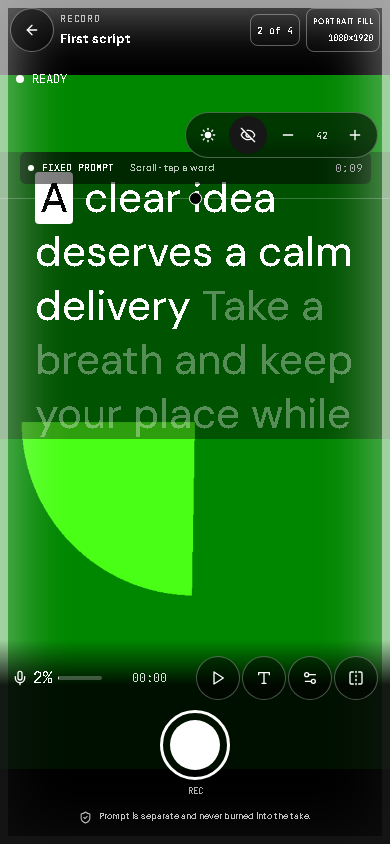
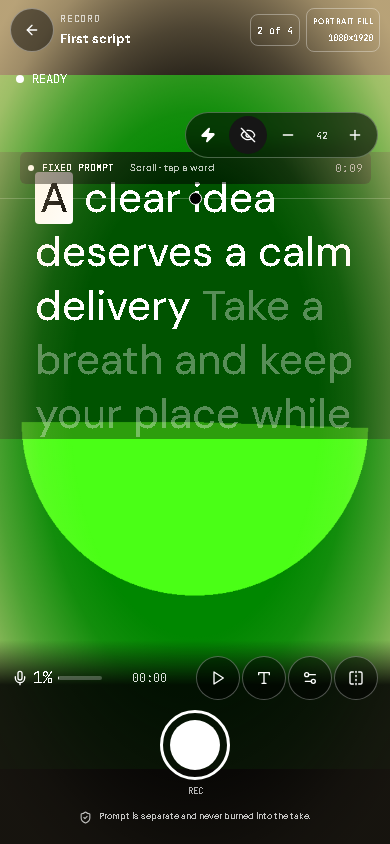
Match Snapchat-style front flash treatment

diff --git a/src/components/teleprompter/RecordPanel.tsx b/src/components/teleprompter/RecordPanel.tsx
@@ -1,5 +1,5 @@
 import { useEffect, useMemo, useRef, useState, type CSSProperties, type ReactNode } from 'react'
-import { ArrowLeft, Camera, Eye, EyeOff, FlipHorizontal, LockKeyhole, Mic, Minus, Pause, Play, Plus, RefreshCw, Settings2, ShieldCheck, Square, Sun, Type, Video, Volume2, Zap } from 'lucide-react'
+import { ArrowLeft, Camera, Eye, EyeOff, FlipHorizontal, LockKeyhole, Mic, Minus, Pause, Play, Plus, RefreshCw, Settings2, ShieldCheck, Square, Type, Video, Volume2, X, Zap } from 'lucide-react'
 import type { CaptureSettings, PromptSettings, RecorderSnapshot, ScriptDocument, TakeRecord } from '../../types/recording'
 import { drawCaptureFrame, measureDrawnFrame, previewTransform, type DrawnFrameDimensions } from '../../features/recording/capture'
 import { Alert, Badge, BottomSheet, Button, IconButton, NativeSelect, Slider, Switch } from '../ui/primitives'
@@ -63,6 +63,7 @@ export function RecordPanel({ snapshot, settings, script, reader, onBack, onSett
   const actionBusyRef = useRef(false)
   const [settingsOpen, setSettingsOpen] = useState(false)
   const [promptSettingsOpen, setPromptSettingsOpen] = useState(false)
+  const [lightControlsOpen, setLightControlsOpen] = useState(false)
   const [actionBusy, setActionBusy] = useState(false)
   const [micTesting, setMicTesting] = useState(false)
   const [videoSize, setVideoSize] = useState({ width: 0, height: 0 })
@@ -81,7 +82,8 @@ export function RecordPanel({ snapshot, settings, script, reader, onBack, onSett
   const resolution = useMemo(() => formatResolution(settings), [settings])
   const framingMode = settings.framingMode ?? 'fill'
   const rotation = settings.rotation ?? 'auto'
-  const screenLightColor = settings.screenLightTone === 'warm' ? '255, 221, 178' : settings.screenLightTone === 'cool' ? '214, 235, 255' : '255, 255, 255'
+  const screenLightColor = settings.screenLightTone === 'warm' ? '255, 225, 166' : settings.screenLightTone === 'cool' ? '205, 242, 255' : '255, 255, 255'
+  const screenLightToneLabel = settings.screenLightTone === 'warm' ? 'Warm' : settings.screenLightTone === 'cool' ? 'Cool' : 'Neutral'
 
   useEffect(() => {
     const video = videoRef.current
@@ -186,12 +188,24 @@ export function RecordPanel({ snapshot, settings, script, reader, onBack, onSett
 
     {reader && <div className="tp-record-reader-overlay" style={{ position: 'absolute', inset: 0, zIndex: 2, pointerEvents: 'none' }}>{reader}</div>}
     <div className="tp-record-prompt-tools" role="group" aria-label="On-screen recording controls">
-      <IconButton label={settings.screenLight ? 'Turn screen light off' : 'Turn screen light on'} onClick={() => onSettingsChange({ screenLight: !settings.screenLight })}><Sun size={18} fill={settings.screenLight ? 'currentColor' : 'none'}/></IconButton>
+      <IconButton label="Open front flash controls" aria-expanded={lightControlsOpen} onClick={() => { setLightControlsOpen((open) => !open); setPromptSettingsOpen(false) }}><Zap size={18} fill={settings.screenLight ? 'currentColor' : 'none'}/></IconButton>
       <IconButton label={script.settings.showPrompt === false ? 'Show transcript' : 'Hide transcript'} onClick={() => onPromptSettingsChange({ showPrompt: script.settings.showPrompt === false })}>{script.settings.showPrompt === false ? <Eye size={18}/> : <EyeOff size={18}/>}</IconButton>
       <IconButton label="Make transcript smaller" onClick={() => onPromptSettingsChange({ fontSize: Math.max(20, script.settings.fontSize - 4) })} disabled={script.settings.fontSize <= 20}><Minus size={17}/></IconButton>
       <span className="mono" aria-live="polite">{script.settings.fontSize}</span>
       <IconButton label="Make transcript larger" onClick={() => onPromptSettingsChange({ fontSize: Math.min(112, script.settings.fontSize + 4) })} disabled={script.settings.fontSize >= 112}><Plus size={17}/></IconButton>
     </div>
+    {lightControlsOpen && settings.facingMode === 'user' && <section className="tp-flash-widget" role="dialog" aria-modal="false" aria-label="Screen light controls">
+      <header><div><strong>Flash</strong><span>{settings.screenLight ? screenLightToneLabel : 'Off'}</span></div><IconButton label="Close screen light controls" onClick={() => setLightControlsOpen(false)}><X size={17}/></IconButton></header>
+      <Switch label="Ring light" checked={settings.screenLight} onChange={(screenLight) => onSettingsChange({ screenLight })}/>
+      <div className="tp-flash-swatches" role="group" aria-label="Ring light color">
+        {([
+          ['neutral', 'Neutral', '#ffffff'],
+          ['warm', 'Warm', '#ffe1a6'],
+          ['cool', 'Cool', '#cdf2ff'],
+        ] as const).map(([tone, label, color]) => <button key={tone} type="button" className={settings.screenLightTone === tone ? 'is-selected' : ''} aria-label={`${label} screen light`} aria-pressed={settings.screenLightTone === tone} onClick={() => onSettingsChange({ screenLight: true, screenLightTone: tone })}><span style={{ background: color }}/></button>)}
+      </div>
+      <Slider className="tp-flash-intensity" label="Intensity" value={settings.screenLightIntensity ?? .72} min={.2} max={1} step={.02} display={`${Math.round((settings.screenLightIntensity ?? .72) * 100)}%`} disabled={!settings.screenLight} onChange={(screenLightIntensity) => onSettingsChange({ screenLightIntensity })}/>
+    </section>}
     <div className="tp-record-status" role="status" aria-live="polite"><span className={`tp-record-state-dot ${isRecording ? 'is-recording' : ''} ${isSaving ? 'is-saving' : ''}`} aria-hidden="true"/><span className="mono">{isRecording ? 'REC' : isSaving ? 'SAVING…' : isFailure ? 'RECOVERY' : unavailable ? 'READY TO OPEN' : 'READY'}</span>{isRecording && <span className="mono">{elapsedLabel(elapsed)}</span>}</div>
     {snapshot.error && <div className="tp-record-alert"><Alert title="Recording needs attention" variant="destructive">{snapshot.error}</Alert></div>}
 
@@ -201,8 +215,8 @@ export function RecordPanel({ snapshot, settings, script, reader, onBack, onSett
         <span className="mono tp-record-timer">{isRecording ? elapsedLabel(elapsed) : '00:00'}</span>
         <div className="tp-record-utilities">
           {onPromptToggle && <IconButton className="tp-record-utility" label={promptPlaying ? 'Pause prompt' : 'Play prompt'} onClick={onPromptToggle} disabled={isSaving}>{promptPlaying ? <Pause size={18}/> : <Play size={18}/>}</IconButton>}
-          <IconButton className="tp-record-utility" label="Open prompt controls" onClick={() => setPromptSettingsOpen(true)}><Type size={18}/></IconButton>
-          <IconButton className="tp-record-utility" label="Open capture settings" onClick={() => setSettingsOpen(true)} disabled={cameraControlsDisabled}><Settings2 size={18}/></IconButton>
+          <IconButton className="tp-record-utility" label="Open prompt controls" onClick={() => { setPromptSettingsOpen(true); setLightControlsOpen(false) }}><Type size={18}/></IconButton>
+          <IconButton className="tp-record-utility" label="Open capture settings" onClick={() => { setSettingsOpen(true); setLightControlsOpen(false) }} disabled={cameraControlsDisabled}><Settings2 size={18}/></IconButton>
           <IconButton className="tp-record-utility" label="Switch camera" onClick={onSwitchCamera} disabled={cameraControlsDisabled || unavailable}><FlipHorizontal size={18}/></IconButton>
         </div>
       </div>

diff --git a/src/styles/teleprompter.css b/src/styles/teleprompter.css
@@ -467,7 +467,7 @@
 .tp-camera-canvas { position: absolute; inset: 0; z-index: 1; display: block; width: 100%; height: 100%; object-fit: contain; background: #000; }
 .tp-camera-canvas.is-front-mirrored { transform: scaleX(-1); }
 .tp-record-surface-scrim { z-index: 2; background: linear-gradient(180deg, rgba(0,0,0,.68), transparent 22%, transparent 68%, rgba(0,0,0,.82)); pointer-events: none; }
-.tp-screen-light { --tp-screen-light-color: 255,255,255; --tp-screen-light-strength: .72; position: absolute; inset: 0; z-index: 4; opacity: var(--tp-screen-light-strength); pointer-events: none; box-shadow: inset 0 0 0 8px rgba(var(--tp-screen-light-color),.78), inset 0 0 54px 16px rgba(var(--tp-screen-light-color),.56); }
+.tp-screen-light { --tp-screen-light-color: 255,255,255; --tp-screen-light-strength: .72; position: absolute; inset: 0; z-index: 4; opacity: var(--tp-screen-light-strength); pointer-events: none; background: radial-gradient(ellipse 72% 62% at 50% 48%, transparent 0%, transparent 44%, rgba(var(--tp-screen-light-color),.1) 56%, rgba(var(--tp-screen-light-color),.42) 72%, rgba(var(--tp-screen-light-color),.86) 89%, rgb(var(--tp-screen-light-color)) 100%); }
 .tp-record-topbar { position: absolute; top: 0; right: 0; left: 0; z-index: 6; display: flex; align-items: center; gap: 10px; padding: max(8px, env(safe-area-inset-top)) 16px 8px; color: #fff; }
 .tp-record-top-back { width: 44px; height: 44px; border: 1px solid rgba(255,255,255,.38); border-radius: 50%; background: rgba(0,0,0,.48); color: #fff; }
 .tp-record-title-block { display: grid; min-width: 0; flex: 1; gap: 3px; }
@@ -490,6 +490,22 @@
 .tp-record-prompt-tools { position: absolute; top: max(112px, calc(env(safe-area-inset-top) + 100px)); right: 12px; z-index: 7; display: flex; align-items: center; gap: 2px; padding: 3px; border: 1px solid rgba(255,255,255,.28); border-radius: 999px; background: rgba(0,0,0,.58); color: #fff; backdrop-filter: blur(12px); }
 .tp-record-prompt-tools .button-icon { width: 38px; min-height: 38px; border: 0; border-radius: 50%; background: transparent; color: #fff; }
 .tp-record-prompt-tools > .mono { min-width: 25px; color: rgba(255,255,255,.82); font-size: 10px; text-align: center; }
+.tp-flash-widget { position: absolute; top: max(160px, calc(env(safe-area-inset-top) + 148px)); right: 12px; z-index: 11; width: min(196px, calc(100vw - 24px)); padding: 14px; border: 1px solid rgba(255,255,255,.2); border-radius: 22px; background: rgba(42,38,36,.82); color: #fff; box-shadow: 0 14px 40px rgba(0,0,0,.38); backdrop-filter: blur(20px) saturate(1.25); }
+.tp-flash-widget > header { display: flex; align-items: flex-start; justify-content: space-between; gap: 12px; }
+.tp-flash-widget > header > div { display: grid; gap: 3px; }
+.tp-flash-widget > header strong { font-size: 16px; }
+.tp-flash-widget > header span { color: rgba(255,255,255,.78); font-size: 13px; }
+.tp-flash-widget > header .button-icon { width: 34px; min-height: 34px; border: 0; border-radius: 50%; background: rgba(255,255,255,.08); color: #fff; }
+.tp-flash-widget .switch-field { min-height: 38px; margin: 8px 0; }
+.tp-flash-swatches { display: grid; grid-template-columns: repeat(3,1fr); gap: 7px; padding: 7px; border-radius: 999px; background: rgba(0,0,0,.2); }
+.tp-flash-swatches button { display: grid; min-width: 44px; min-height: 44px; place-items: center; border-radius: 999px; }
+.tp-flash-swatches button span { width: 30px; height: 30px; border: 2px solid rgba(255,255,255,.88); border-radius: 50%; box-shadow: 0 1px 8px rgba(0,0,0,.32); }
+.tp-flash-swatches button.is-selected { background: rgba(255,255,255,.16); box-shadow: inset 0 0 0 2px rgba(255,255,255,.18); }
+.tp-flash-widget .tp-flash-intensity { margin: 9px 0 0; padding: 8px 10px 3px; border-radius: 999px; background: rgba(0,0,0,.18); }
+.tp-flash-widget .tp-flash-intensity .field-label { margin: 0 2px 2px; }
+.tp-flash-widget .tp-flash-intensity .origin-slider { height: 38px; }
+.tp-flash-widget .tp-flash-intensity .origin-slider-track { height: 10px; background: rgba(255,255,255,.16); }
+.tp-flash-widget .tp-flash-intensity .origin-slider-thumb { width: 30px; height: 30px; border: 2px solid rgba(0,0,0,.28); }
 .tp-record-bottom-bar { position: absolute; right: 0; bottom: 0; left: 0; z-index: 8; display: flex; flex-direction: column; gap: 12px; padding: 16px 18px max(18px, env(safe-area-inset-bottom)); color: #fff; background: linear-gradient(transparent, rgba(0,0,0,.88) 22%); }
 .tp-record-bottom-meta { display: flex; align-items: center; justify-content: space-between; gap: 12px; }
 .tp-record-mic-meter { display: flex; align-items: center; gap: 7px; min-width: 92px; }

diff --git a/teleprompter-e2e/phone-flow-navigation.spec.ts b/teleprompter-e2e/phone-flow-navigation.spec.ts
@@ -72,10 +72,19 @@ test.describe('phone first Script to Record to Review flow', () => {
     await promptWords.first().click();
     await expect(promptWords.first()).toHaveAttribute('aria-current', 'true');
     await expect(page.locator('.tp-screen-light')).toBeVisible();
-    await page.getByRole('button', { name: 'Turn screen light off', exact: true }).click();
+    await page.getByRole('button', { name: 'Open front flash controls', exact: true }).click();
+    const lightDialog = page.getByRole('dialog', { name: 'Screen light controls', exact: true });
+    await expect(lightDialog).toBeVisible();
+    await expect(lightDialog.getByRole('button', { name: 'Neutral screen light', exact: true })).toHaveAttribute('aria-pressed', 'true');
+    await lightDialog.getByRole('button', { name: 'Warm screen light', exact: true }).click();
+    await expect(lightDialog.getByRole('button', { name: 'Warm screen light', exact: true })).toHaveAttribute('aria-pressed', 'true');
+    await expect(lightDialog.getByRole('slider', { name: 'Intensity', exact: true })).toBeVisible();
+    await page.screenshot({ path: resolve(evidenceDir, 'record-front-flash-controls-390x844.png'), fullPage: false });
+    await lightDialog.getByRole('switch', { name: 'Ring light', exact: true }).click();
     await expect(page.locator('.tp-screen-light')).toHaveCount(0);
-    await page.getByRole('button', { name: 'Turn screen light on', exact: true }).click();
+    await lightDialog.getByRole('switch', { name: 'Ring light', exact: true }).click();
     await expect(page.locator('.tp-screen-light')).toBeVisible();
+    await lightDialog.getByRole('button', { name: 'Close screen light controls', exact: true }).click();
     const initialPromptSize = await page.locator('.tp-reader-compact .tp-reading-stage').evaluate((stage) => stage.style.getPropertyValue('--tp-size'));
     await page.getByRole('button', { name: 'Make transcript larger', exact: true }).click();
     await expect.poll(() => page.locator('.tp-reader-compact .tp-reading-stage').evaluate((stage) => stage.style.getPropertyValue('--tp-size'))).not.toBe(initialPromptSize);

diff --git a/docs/SOURCES_CAPTURE.md b/docs/SOURCES_CAPTURE.md
@@ -22,6 +22,13 @@ iPhone portrait recording and preview-axis failures in
 [bug 220326](https://bugs.webkit.org/show_bug.cgi?id=220326), and
 [bug 290223](https://bugs.webkit.org/show_bug.cgi?id=290223).
 
+The screen-powered front flash follows Snap's documented Ring Light behavior:
+a soft illuminated preview border with adjustable gradient intensity and color
+temperature. The visual reference and behavior are documented in Snap's
+[Inclusive Camera guide](https://developers.snap.com/camera-kit/integrate-sdk/ios/guides/inclusive-camera)
+and its official `cam-kit-ring-flash.jpg` example. No Camera Kit code or SDK is
+included; the web implementation is original CSS and existing UI primitives.
+
 No upstream code is copied into `src/features/recording` without adaptation.
 Recording chunks and scripts remain local in IndexedDB; no media is put in
 `localStorage` or sent to a remote service.
